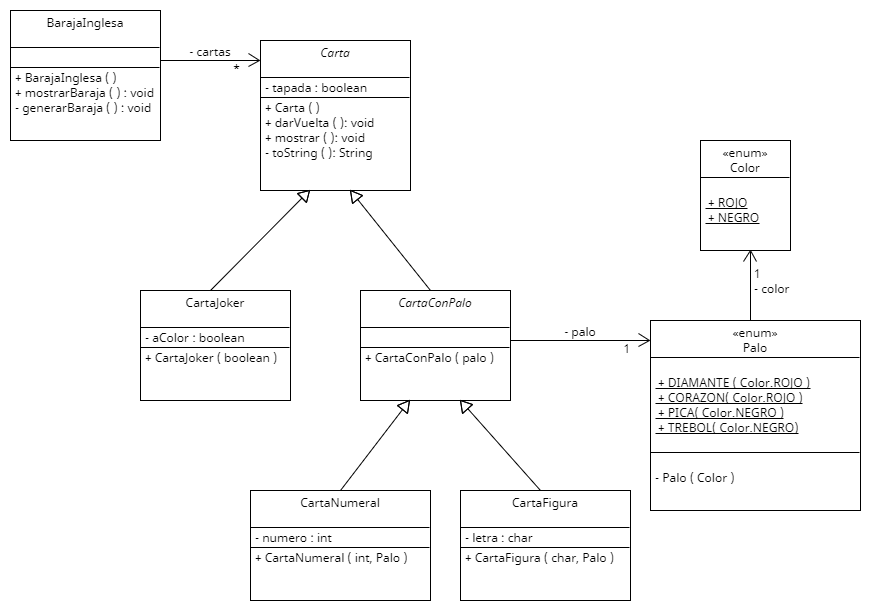
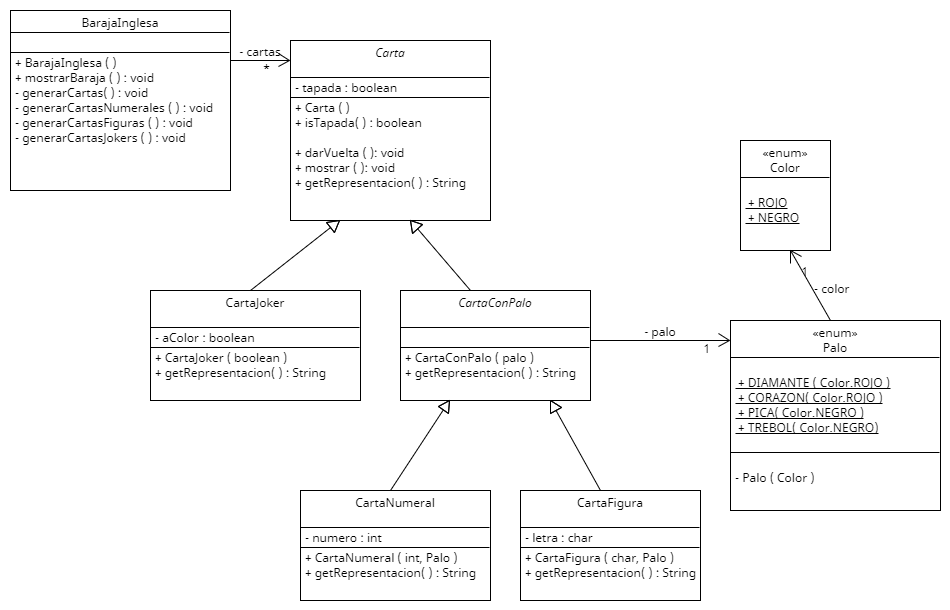
Agregando funcionalidad mostrar todas las cartas usando polimorfismo

diff --git a/src/baraja/cartas/Carta.java b/src/baraja/cartas/Carta.java
@@ -5,24 +5,33 @@ package baraja.cartas;
  * https://github.com/orellana-max
  */
 public abstract class Carta {
-    
-    private boolean tapada;
-    
-    public Carta() {
-    // por defecto, 'tapada' es false
-    }
-    
-    public void mostrar(){
-    
-    }
-    
-    public void darVuelta(){}
 
-    @Override
-    public String toString() {
-        return "Carta{" + "tapada=" + tapada + '}';
+    private boolean tapada;
+
+    public boolean isTapada() {
+        return tapada;
     }
-    
-    
-    
+
+    public Carta() {
+        // por defecto, 'tapada' es false
+        this.tapada = true;
+    }
+
+    public void darVuelta() {
+        tapada = !tapada;
+    }
+
+    public void mostrar() {
+
+        if (tapada) {
+            System.out.println("********");
+        } else {
+            System.out.println(getRepresentacion());
+        }
+    }
+
+    public String getRepresentacion() {
+        return "Carta Genérica";
+    }
+
 }

diff --git a/src/baraja/cartas/CartaNumeral.java b/src/baraja/cartas/CartaNumeral.java
@@ -3,18 +3,21 @@ package baraja.cartas;
 import baraja.Palo;
 
 /**
- * @author @author Maximiliano Orellana
- * Mi perfil en GitHub: https://github.com/orellana-max
+ * @author @author Maximiliano Orellana Mi perfil en GitHub:
+ * https://github.com/orellana-max
  */
-public class CartaNumeral extends CartaConPalo{
-    
+public class CartaNumeral extends CartaConPalo {
+
     private int numero;
 
     public CartaNumeral(int numero, Palo palo) {
         super(palo);
         this.numero = numero;
     }
-    
-    
+
+    @Override
+    public String getRepresentacion() {
+        return numero + super.getRepresentacion();
+    }
 
 }

diff --git a/src/baraja/cartas/CartaFigura.java b/src/baraja/cartas/CartaFigura.java
@@ -3,8 +3,8 @@ package baraja.cartas;
 import baraja.Palo;
 
 /**
- * @author @author Maximiliano Orellana
- * Mi perfil en GitHub: https://github.com/orellana-max
+ * @author @author Maximiliano Orellana Mi perfil en GitHub:
+ * https://github.com/orellana-max
  */
 public class CartaFigura extends CartaConPalo {
 
@@ -14,7 +14,10 @@ public class CartaFigura extends CartaConPalo {
         super(palo);
         this.letra = letra;
     }
-    
-    
-    
+
+    @Override
+    public String getRepresentacion() {
+        return letra + super.getRepresentacion();
+    }
+
 }

diff --git a/src/baraja/cartas/CartaConPalo.java b/src/baraja/cartas/CartaConPalo.java
@@ -1,16 +1,23 @@
 package baraja.cartas;
+
 import baraja.Palo;
 
 /**
- * @author @author Maximiliano Orellana
- * Mi perfil en GitHub: https://github.com/orellana-max
+ * @author @author Maximiliano Orellana Mi perfil en GitHub:
+ * https://github.com/orellana-max
  */
 public abstract class CartaConPalo extends Carta {
+
     private Palo palo;
 
     public CartaConPalo(Palo palo) {
         //super();
         this.palo = palo;
+    }
+
+    @Override
+    public String getRepresentacion() {
+        return " de " + palo;
     }
 
 }

diff --git a/src/baraja/cartas/CartaJoker.java b/src/baraja/cartas/CartaJoker.java
@@ -13,5 +13,11 @@ public class CartaJoker extends Carta {
         this.aColor = aColor;
     }
     
+    @Override
+    public String getRepresentacion() {
+        return "Joker " + (aColor? "a colores" : "blanco y negro");
+    }
+    
+
     
 }

diff --git a/src/baraja/BarajaInglesa.java b/src/baraja/BarajaInglesa.java
@@ -22,6 +22,7 @@ public class BarajaInglesa {
 
     public void mostrarBaraja() {
         for (Carta carta : cartas) {
+            carta.darVuelta();
             carta.mostrar();
         }
     }

diff --git a/README.md b/README.md
@@ -10,7 +10,12 @@ descripcion del video:
 
 Link hacia el enunciado: https://drive.google.com/file/d/1aSf1_b_7yuXYoQR8lkUeA_2Mc1J4wNfj/view
 
+Luego... Se modifica el codigo del proyecto usando POLIMORFISMO para poder mostrar todas las cartas por consola, viendo el video de Charly Cimino "Ejemplo de POLIMORFISMO 🔗 en JAVA ☕ La baraja inglesa". link del video: https://youtu.be/sh6ZgKUICj0
+descripcion del video: 
+Retomamos el ejercicio de herencia donde modelamos una baraja inglesa (• EJERCICIO de POO ...  ) para poder mostrar ahora todas las cartas en la consola, usando, nuevamente, POLIMORFISMO.
 
+
+----------------------------------------------------------------
 Mi perfil en GitHub: https://github.com/orellana-max
 
 repositorio en GitHub POO_Herencia_Integrador_Baraja_Inglesa:
